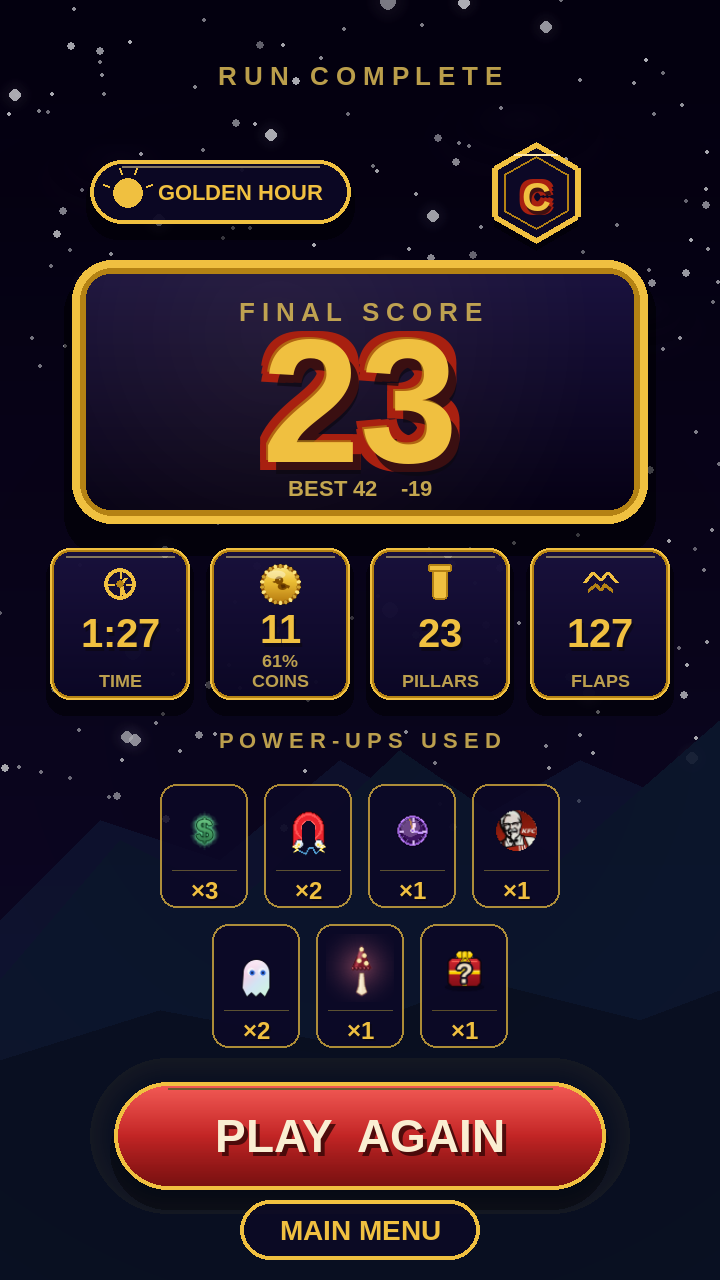
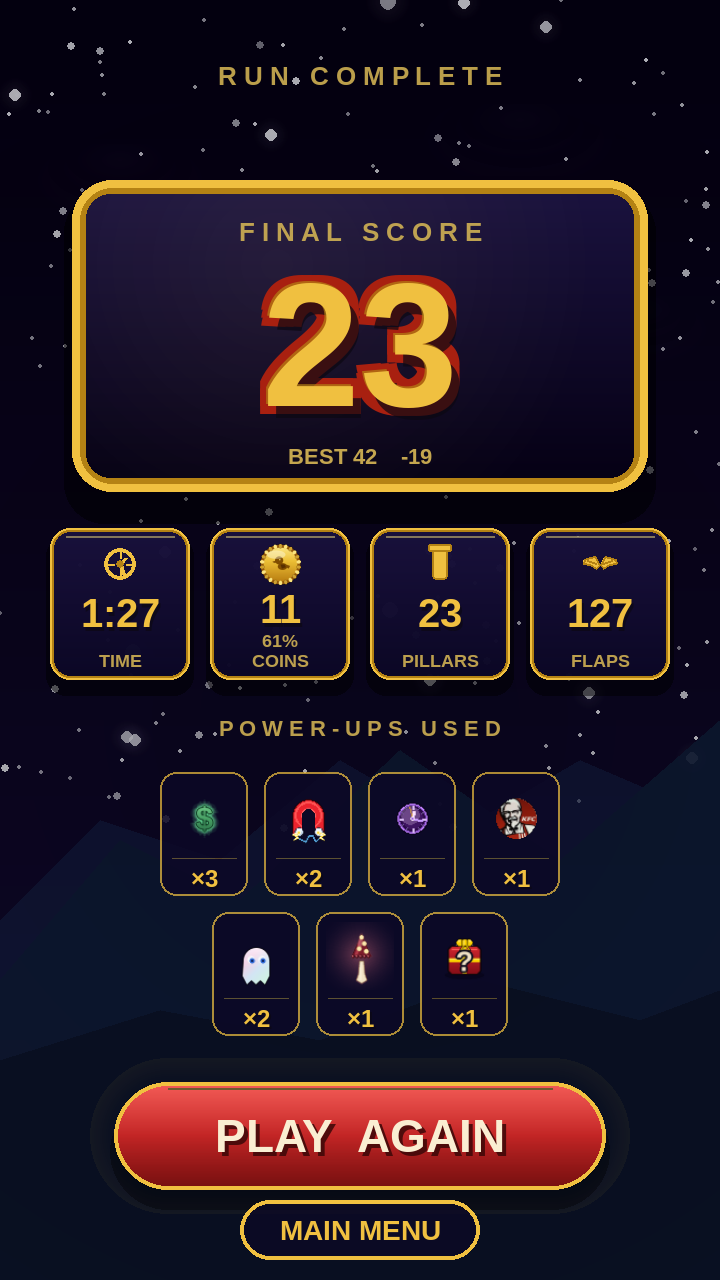
v1 header: drop rank + biome chips; wings glyph for FLAPS
Both header elements ended up reading as "condition the game ended
in" without much actionable signal. Removing them gives the plaque
more vertical room and makes the screen lead with the score, not
metadata about how it was earned.

The FLAPS stat icon is now a proper pair of outstretched bird wings
(leaf-shaped silhouettes with a tapered tip + inner feather ridge)
instead of the chevron strokes it had before.

https://claude.ai/code/session_01BEgi1kRwzhWvvC8NuZNc1t

Changed region(s): [[0.0611, 0.0938, 0.9472, 0.8125], [0.2139, 0.5938, 0.2444, 0.625]]

diff --git a/tools/gen_run_summary_redesigns.py b/tools/gen_run_summary_redesigns.py
@@ -476,22 +476,29 @@ def stat_icon(surf, kind, cx, cy, size):
                           w + 4 * SCALE, 4 * SCALE),
                          width=1 * SCALE, border_radius=int(1 * SCALE))
     elif kind == "flap":
-        # Two stylised wing strokes suggesting a flap. Upper bright,
-        # lower deep-gold for depth.
-        pygame.draw.lines(surf, GOLD_BRIGHT, False, [
-            (cx - s, cy - s * 0.1),
-            (cx - s * 0.45, cy - s * 0.7),
-            (cx, cy - s * 0.2),
-            (cx + s * 0.45, cy - s * 0.7),
-            (cx + s, cy - s * 0.1),
-        ], 2 * SCALE)
-        pygame.draw.lines(surf, GOLD_DEEP, False, [
-            (cx - s * 0.75, cy + s * 0.4),
-            (cx - s * 0.3, cy + s * 0.0),
-            (cx, cy + s * 0.4),
-            (cx + s * 0.3, cy + s * 0.0),
-            (cx + s * 0.75, cy + s * 0.4),
-        ], 2 * SCALE)
+        # A pair of outstretched bird wings — each wing is a leaf-shaped
+        # silhouette with a curved leading edge and tapered tip. The
+        # central "body" joins them as a thin pinch.
+        for sign in (-1, 1):
+            wing_pts = [
+                (cx + sign * s * 0.04, cy + s * 0.1),
+                (cx + sign * s * 0.35, cy - s * 0.45),
+                (cx + sign * s * 0.95, cy - s * 0.30),
+                (cx + sign * s * 1.05, cy - s * 0.05),
+                (cx + sign * s * 0.60, cy + s * 0.05),
+                (cx + sign * s * 0.20, cy + s * 0.25),
+            ]
+            pygame.draw.polygon(surf, GOLD_BRIGHT, wing_pts)
+            pygame.draw.polygon(surf, GOLD_DEEP, wing_pts, 1 * SCALE)
+            # Inner feather ridge for texture
+            pygame.draw.line(surf, GOLD_DEEP,
+                             (cx + sign * s * 0.20, cy - s * 0.05),
+                             (cx + sign * s * 0.80, cy - s * 0.20),
+                             1 * SCALE)
+        # Small body dot in the centre
+        pygame.draw.circle(surf, GOLD_DEEP,
+                           (cx, int(cy + s * 0.12)),
+                           max(1, int(s * 0.12)))
     elif kind == "bolt":
         pts = [(cx - s * 0.3, cy - s),
                (cx + s * 0.5, cy - s * 0.1),
@@ -779,23 +786,14 @@ def draw_v1_trophy_cinema(surf, data):
     cap.set_alpha(220)
     surf.blit(cap, cap.get_rect(center=(W // 2, 38 * SCALE)))
 
-    # Header row: BIOME chip on the left, hex RANK medal on the right,
-    # sharing the same vertical centre so they read as a paired set.
-    # Sub-labels are dropped — the medallion shape and the "GOLDEN
-    # HOUR"-style biome name both self-identify, and removing them
-    # frees up the strip below for the plaque.
-    grade = grade_for(data["score"])
-    header_cy = 96 * SCALE
-    biome_chip(surf,
-               (W // 2 - 70 * SCALE, header_cy),
-               data.get("biome_reached", "DAY"),
-               sub_label=None)
-    hex_medal(surf, W // 2 + 88 * SCALE, header_cy,
-              size=24, letter=grade, sub_label=None)
+    # The rank medal and biome chip are intentionally absent — both
+    # ended up reading as "condition the game ended in" without much
+    # actionable meaning. Removing them gives the plaque more room
+    # to breathe at the top.
 
     # Hero score plaque — large rounded engraved panel
-    plaque = pygame.Rect(36 * SCALE, 130 * SCALE,
-                         W - 72 * SCALE, 132 * SCALE)
+    plaque = pygame.Rect(36 * SCALE, 90 * SCALE,
+                         W - 72 * SCALE, 156 * SCALE)
     # Outer drop shadow
     sh = pygame.Surface((plaque.w + 8 * SCALE, plaque.h + 10 * SCALE),
                         pygame.SRCALPHA)
@@ -879,7 +877,7 @@ def draw_v1_trophy_cinema(surf, data):
     tile_gap = 10 * SCALE
     total_w = len(tiles) * tile_w + (len(tiles) - 1) * tile_gap
     start_x = (W - total_w) // 2
-    tile_y = 274 * SCALE
+    tile_y = 264 * SCALE
     for i, (k, v, lbl, sub) in enumerate(tiles):
         r = pygame.Rect(start_x + i * (tile_w + tile_gap), tile_y,
                         tile_w, tile_h)
@@ -891,7 +889,7 @@ def draw_v1_trophy_cinema(surf, data):
     # always reads at the same comfortable size.
     pu = [(k, c) for k, c in data["powerups_picked"] if c and c > 0]
     if pu:
-        cap_y = 370 * SCALE
+        cap_y = 364 * SCALE
         cap2 = font(11, True).render("P O W E R - U P S   U S E D",
                                      True, GOLD_MUTED)
         cap2.set_alpha(220)
